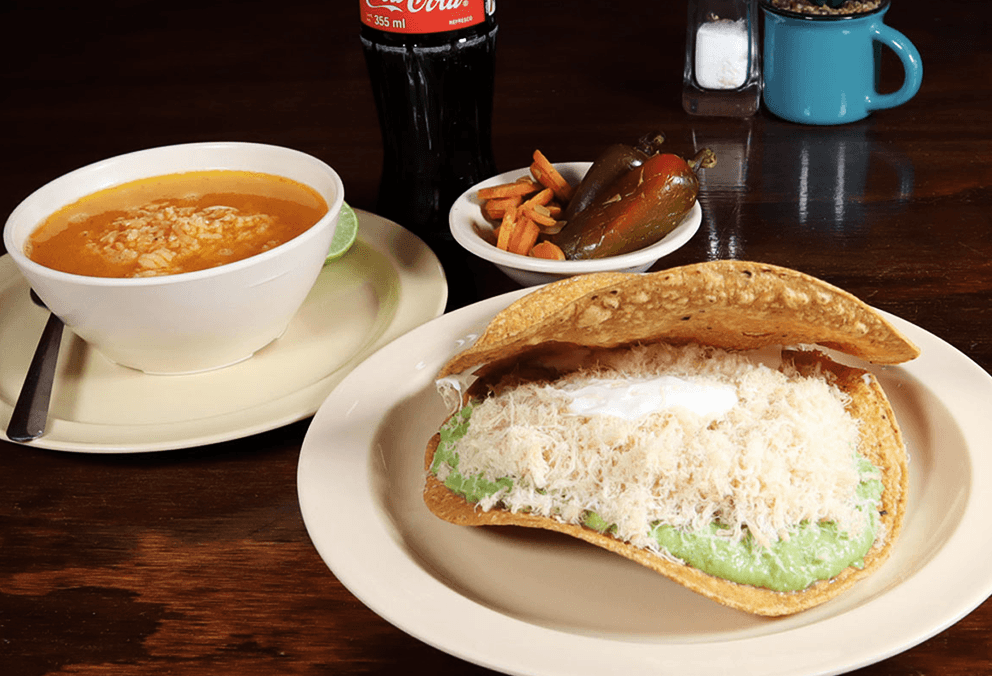
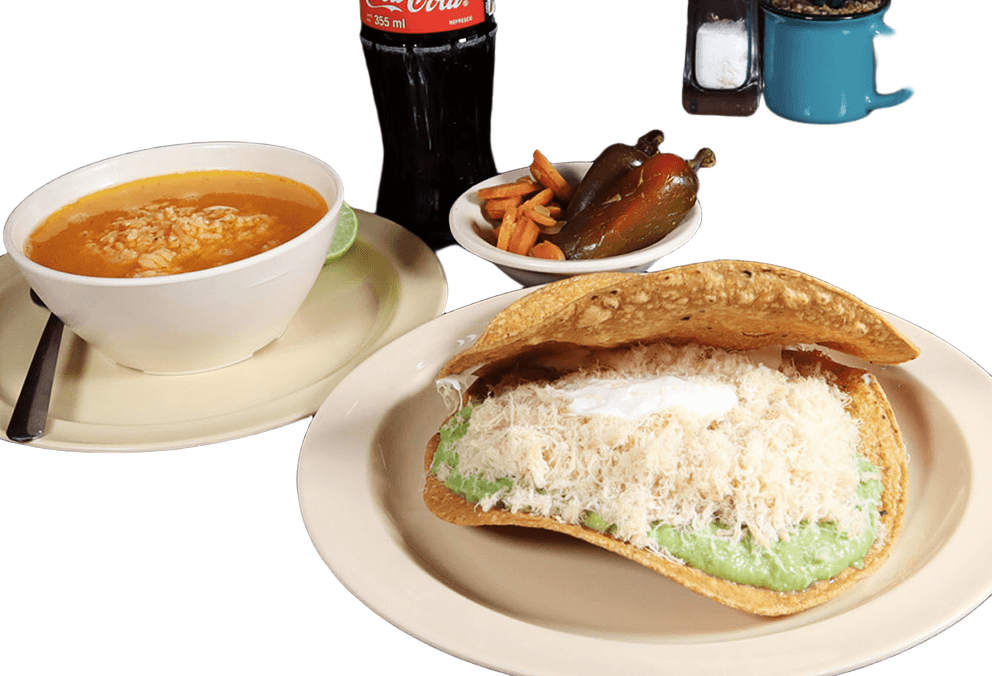
men fin

diff --git a/menú.html b/menú.html
@@ -35,6 +35,8 @@
 
         #bebidas-list .combo img{width:100px; height:100px; object-fit:contain; background-color: rgba(255,255,255,0.8); border-radius:8px; box-shadow:0 2px 4px rgba(0,0,0,0.1);}
         
+        .combo img[src*="Tapa"], .combo img[src*="Oblea"]{width:105px !important; height:85px !important; object-fit:contain !important; background-color:white !important; padding:2px !important;}
+        
         nav{display:flex; gap:16px; align-items:center;}
         nav a{color:white; text-decoration:none; padding:8px 16px; border-radius:6px; transition:background 0.2s;}
         nav a:hover{background:rgba(255,255,255,0.1);}
@@ -114,7 +116,7 @@
                 <h2>Platillos</h2>
                 <p class="menu-list">Elige entre nuestros platillos pensados completamente para ti.</p>
                 <div class="combo">
-                        <img src="IMAGENES/Enchiladas.jpg" alt="">
+                        <img src="IMAGENES/Enchiladas Suizas Siberianas.png" alt="">
                         <div class="meta">
                             <div><strong>Enchiladas Suizas <br>(5 pzas.)</strong> — Acompañadas con arroz y lechuga</div>
                         </div>
@@ -122,7 +124,7 @@
                     </div>
 
                <div class="combo">
-                        <img src="IMAGENES/Tacos dorados siberianos.webp" alt="">
+                        <img src="IMAGENES/Tacos dorados siberianos.png" alt="">
                         <div class="meta">
                             <div><strong>Tacos Dorados <br>(5 pzas.)</strong> — Acompañadas con arroz y lechuga</div>
                         </div>
@@ -130,7 +132,7 @@
                     </div>
                     <br>
                <div class="combo">
-                        <img src="IMAGENES/Enmoladas siberianas.jpg" alt="">
+                        <img src="IMAGENES/Enmoladas siberianas.png" alt="">
                         <div class="meta">
                             <div><strong>Enmoladas <br>(5 pzas.)</strong> — Acompañadas con arroz y lechuga</div>
                         </div>
@@ -138,7 +140,7 @@
                     </div>
                     
                 <div class="combo">
-                        <img src="IMAGENES/EnsaladaPollo siberiana.jpg" alt="">
+                        <img src="IMAGENES/EnsaladaPollo siberiana.png" alt="">
                         <div class="meta">
                             <div><strong>Ensalada de pollo</strong> — Acompañada con arroz</div>
                         </div>
@@ -146,7 +148,7 @@
                     </div>
                     <br>
                 <div class="combo">
-                        <img src="IMAGENES/FlautasPollo Siberianas.jpg" alt="">
+                        <img src="IMAGENES/FlautasPollo Siberianas.png" alt="">
                         <div class="meta">
                             <div><strong>Flautas de Pollo <br>(5 pzas.)</strong> — Acompañadas con arroz y lechuga</div>
                         </div>
@@ -154,7 +156,7 @@
                     </div>
 
                 <div class="combo">
-                        <img src="IMAGENES/FlautasRes Siberianas.jpg" alt="">
+                        <img src="IMAGENES/FlautasRes Siberianas.png" alt="">
                         <div class="meta">
                             <div><strong>Flautas de Res <br>(5 pzas.)</strong> — Acompañadas con arroz y lechuga</div>
                         </div>
@@ -162,7 +164,7 @@
                     </div>
                     <br>
                 <div class="combo">
-                        <img src="IMAGENES/Milanesa Siberiana.jpg" alt="">
+                        <img src="IMAGENES/Milanesa Siberiana.png" alt="">
                         <div class="meta">
                             <div><strong>Milanesa Empanizada</strong> — Acompañada con arroz y lechuga</div>
                         </div>
@@ -170,7 +172,7 @@
                     </div>
 
                 <div class="combo">
-                        <img src="IMAGENES/MoleEsp Siberiano.jpg" alt="">
+                        <img src="IMAGENES/MoleEsp Siberiano.png" alt="">
                         <div class="meta">
                             <div><strong>Mole Especial <br>(pechuga)</strong> — Acompañado con arroz y lechuga</div>
                         </div>
@@ -178,7 +180,7 @@
                     </div>
                     <br>
                 <div class="combo">
-                        <img src="IMAGENES/MoleSen Siberiano.jpg" alt="">
+                        <img src="IMAGENES/MoleSen Siberiano.png" alt="">
                         <div class="meta">
                             <div><strong>Mole Sencillo <br>(pierna)</strong> — Acompañado con arroz y lechuga</div>
                         </div>
@@ -192,7 +194,7 @@
 
                 <div class="section" id="combos-list">
                     <div class="combo">
-                        <img src="IMAGENES/Combo Siberiano 1.jpeg" alt="">
+                        <img src="IMAGENES/Combo Siberiano 1.png" alt="">
                         <div class="meta">
                             <div><strong>Combo Siberiano 1</strong> — 1 Tostada Especial + 1 Consomé + 1 Refresco</div>
                         </div>
@@ -200,7 +202,7 @@
                     </div>
 
                     <div class="combo">
-                        <img src="IMAGENES/Combo Siberiano 2.jpeg" alt="">
+                        <img src="IMAGENES/Combo Siberiano 2.png" alt="">
                         <div class="meta">
                             <div><strong>Combo Siberiano 2</strong> — 1 Tostada Sencilla + 1 Consomé + 1 Refresco</div>
                         </div>
@@ -208,7 +210,7 @@
                     </div>
 
                     <div class="combo">
-                        <img src="IMAGENES/Combo Siberiano 3.JPG" alt="">
+                        <img src="IMAGENES/Combo Siberiano 3.png" alt="">
                         <div class="meta">
                             <div><strong>Combo Siberiano 3</strong> — 1 Taco Especial + 1 Consomé + 1 Refresco</div>
                         </div>
@@ -216,7 +218,7 @@
                     </div>
 
                     <div class="combo">
-                        <img src="IMAGENES/Combo Siberiano 4.JPG" alt="">
+                        <img src="IMAGENES/Combo Siberiano 4.png" alt="">
                         <div class="meta">
                             <div><strong>Combo Siberiano 4</strong> — 1 Taco Sencillo + 1 Consomé + 1 Refresco</div>
                         </div>
@@ -224,7 +226,7 @@
                     </div>
 
                     <div class="combo">
-                        <img src="IMAGENES/Combo Siberiano 5.jpeg" alt="">
+                        <img src="IMAGENES/Combo Siberiano 5.png" alt="">
                         <div class="meta">
                             <div><strong>Combo Siberiano 5</strong> — 1 Tostada Especial Jr. + 1 Consomé + 1 Refresco</div>
                         </div>
@@ -245,7 +247,7 @@
                 <p class="menu-list">Selecciona entre nuestros consomés pensados para ti.</p>
 
                     <div class="combo">
-                        <img src="IMAGENES/ConsoméG Siberiano.jpg" alt="">
+                        <img src="IMAGENES/ConsoméG Siberiano.png" alt="">
                         <div class="meta">
                             <div><strong>Grande (1 litro)</strong> — Acompañado con arroz y salsa</div>
                         </div>
@@ -253,7 +255,7 @@
                     </div>
         
                     <div class="combo">
-                        <img src="IMAGENES/ConsoméC Siberiano.jpg" alt="">
+                        <img src="IMAGENES/ConsoméC Siberiano.png" alt="">
                         <div class="meta">
                             <div><strong>Chico (1/2 litro)</strong> — Acompañado con arroz y salsa</div>
                         </div>
@@ -268,7 +270,7 @@
 
                 <div class="section">
                     <div class="combo">
-                        <img src="IMAGENES/TostadaEsp Siberiana.jpg" alt="">
+                        <img src="IMAGENES/TostadaEsp Siberiana.png" alt="">
                         <div class="meta">
                             <div><strong>Especial (pechuga)</strong> — Acompañada con chiles jalapeños</div>
                         </div>
@@ -292,7 +294,7 @@
                     </div>
 
                     <div class="combo">
-                        <img src="IMAGENES/TostadaSenJr. Siberiana.jpeg" alt="">
+                        <img src="IMAGENES/TostadaSenJr. Siberiana.png" alt="">
                         <div class="meta">
                             <div><strong>Sencilla Jr. (pierna)</strong> — Acompañada con chiles jalapeños</div>
                         </div>
@@ -305,7 +307,7 @@
                 <p class="menu-list">Selecciona entre nuestras clásicos tacos diseñados para ti.</p>
 
                     <div class="combo">
-                        <img src="IMAGENES/TacoEsp Siberiano.jpg" alt="">
+                        <img src="IMAGENES/TacoEsp Siberiano.png" alt="">
                         <div class="meta">
                             <div><strong>Especial (pechuga)</strong> — Acompañado con chiles jalapeños</div>
                         </div>
@@ -313,7 +315,7 @@
                     </div>
 
                     <div class="combo">
-                        <img src="IMAGENES/TacoSen Siberiano.JPG" alt="">
+                        <img src="IMAGENES/TacoSen Siberiano.png" alt="">
                         <div class="meta">
                             <div><strong>Sencillo (pierna)</strong> — Acompañado con chiles jalapeños</div>
                         </div>
@@ -329,7 +331,7 @@
                     </div>
 
                     <div class="combo">
-                        <img src="IMAGENES/TacoEn Siberiano.jpeg" alt="">
+                        <img src="IMAGENES/TacoEn Siberiano.png" alt="">
                         <div class="meta">
                             <div><strong>Enmolado (pechuga)</strong> — Acompañado con crema y arroz</div>
                         </div>
@@ -337,7 +339,7 @@
                     </div>
 
                     <div class="combo">
-                        <img src="IMAGENES/TacoSuizo Siberiano.jpeg" alt="">
+                        <img src="IMAGENES/TacoSuizo Siberiano.png" alt="">
                         <div class="meta">
                             <div><strong>Suizo (pechuga)</strong> — Acompañado con salsa, crema y arroz</div>
                         </div>
@@ -429,7 +431,7 @@
                     </div>
 
                     <div class="combo">
-                        <img src="IMAGENES/Nuggets Siberianos.jpg" alt="">
+                        <img src="IMAGENES/Nuggets Siberianos.png" alt="">
                         <div class="meta">
                             <div><strong>Nuggets de Pollo</strong> — Incluye catsup y queso</div>
                         </div>
@@ -484,7 +486,7 @@
 
                 <div class="section">
                     <div class="combo">
-                        <img src="IMAGENES/CaldoEsp Siberiano.webp" alt="">
+                        <img src="IMAGENES/CaldoEsp Siberiano.png" alt="">
                         <div class="meta">
                             <div><strong>Especial (pechuga)</strong> — Acompañado con arroz y tostada</div>
                         </div>
@@ -492,7 +494,7 @@
                     </div>
                     <br>
                     <div class="combo">
-                        <img src="IMAGENES/CaldoSen Siberiano.jpg" alt="">
+                        <img src="IMAGENES/CaldoSen Siberiano.png" alt="">
                         <div class="meta">
                             <div><strong>Sencillo (pierna)</strong> — Acompañado con arroz y tostada</div>
                         </div>
@@ -500,7 +502,7 @@
                     </div>
                     <br>
                     <div class="combo">
-                        <img src="IMAGENES/Caldo Tlalpeño Siberiano.jpg" alt="">
+                        <img src="IMAGENES/Caldo Tlalpeño Siberiano.png" alt="">
                         <div class="meta">
                             <div><strong>Tlalpeño</strong> — Acompañado con arroz y tostada</div>
                         </div>
